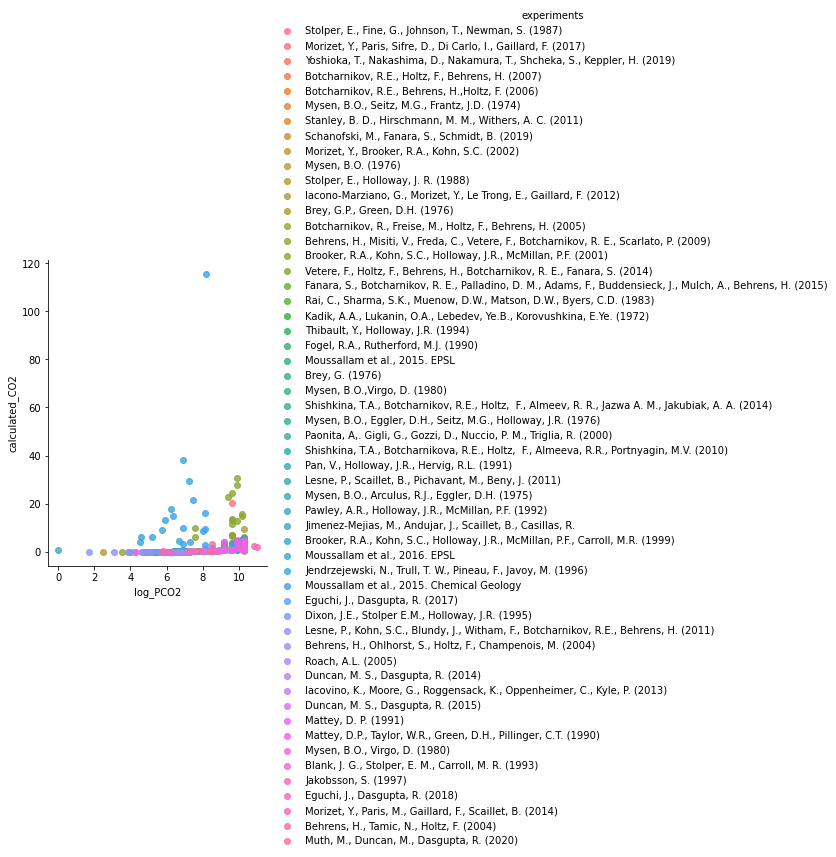
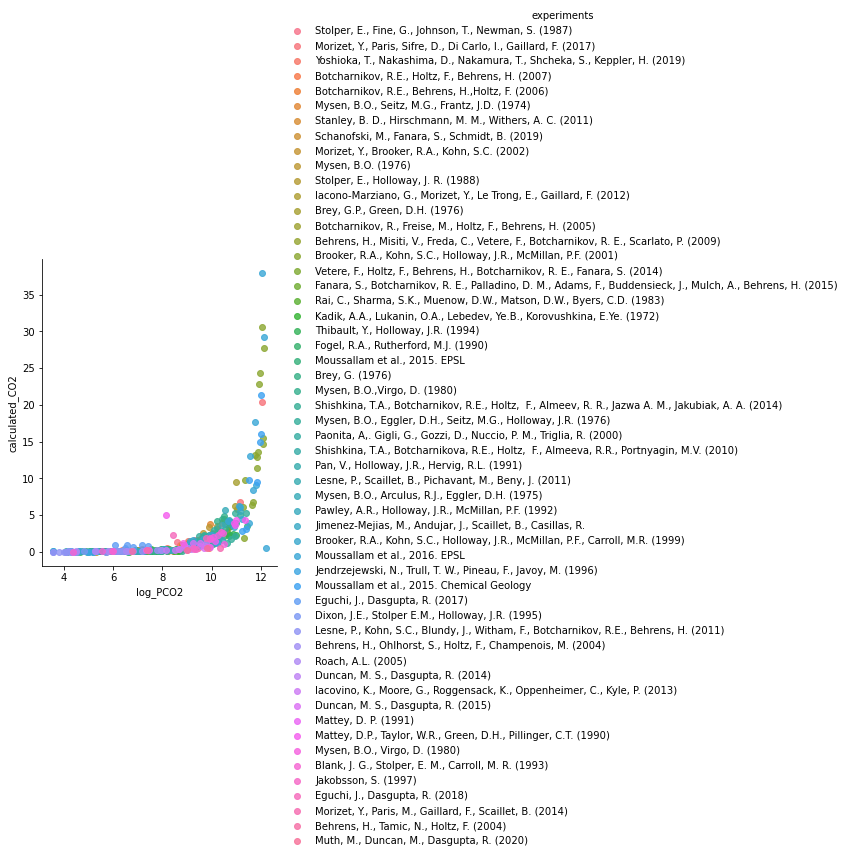
updated figures

Changed region(s): [[0.311, 0.0, 0.933, 1.0], [0.0311, 0.3034, 0.311, 0.6978], [0.2799, 0.4247, 0.311, 0.4551]]

diff --git a/Code/Iacono_approach_CO2.py b/Code/Iacono_approach_CO2.py
@@ -18,7 +18,6 @@ import seaborn as sns
 #%%
 #Remove data that have missing values
 data = pd.read_excel("Solubility_database5-11.xlsx", header=1)
-data = pd.read_excel("Solubility_database5-11.xlsx", header=1)
 clean_data = data[data["Phases"] == "liq"]
 clean_data1 = data[data["Phases"] == "liq+fl"]
 clean_data2 = data[data["Phases"].isnull()]
@@ -47,7 +46,7 @@ for i in range(np.shape(copy_of_data)[0]):
         index1.append(i)
 copy_of_data = copy_of_data[index1]
 #%%
-idx = [9,11,30,47,122,162,163,164,165,166,167,168,169,170,171,0,47]
+idx = [9,11,30,47,122,162,163,164,165,166,167,168,169,170,171,0]
 reduced_data = copy_of_data[:,idx]
 #%%
 for i in range(5,15):
@@ -91,7 +90,7 @@ new_train[:,6] = a/b
 new_train[:,7] = 1/reduced_data[:,1]
 #%%
 new_train1 = np.append(new_train, np.reshape(reduced_data[:,15],(-1,1)),1)
-new_train1 = np.append(new_train1, np.reshape(reduced_data[:,16],(-1,1)),1)
+new_train1 = np.append(new_train1, np.reshape(reduced_data[:,4],(-1,1)),1)
 #%%
 #Train-validation-test split: 60-20-20, using ordinary linear regression
 X_train, X_test, y_train, y_test = train_test_split(new_train1, y_whole_set, test_size=0.2, random_state=1)
@@ -105,8 +104,6 @@ val_error = np.sum((y_val_pred-y_val)**2)/len(y_val_pred)#1.2973  #validation er
 
 y_test_pred = np.matmul(X_test[:,:8],beta)
 test_error = np.sum((y_test_pred-y_test)**2)/len(y_test_pred)#1.0566  #test error(MSE)
-#%%
-
 #%%
 neigh = KNeighborsRegressor()
 #%%
@@ -209,27 +206,58 @@ plt.title("test data")
 y_train = np.exp(y_train)/10000
 y_pred = np.exp(y_pred)/10000
 #%%
+y_train = np.delete(y_train, 126)
+y_pred = np.delete(y_pred, 126)
+#%%
 df = np.append(np.reshape(y_train, (-1,1)), np.reshape(y_pred, (-1,1)),1)
-df = np.append(df, np.reshape(X_train[:,8], (-1,1)),1)
+#%%
+a2 = X_train[:,8]
+#%%
+a2 = np.delete(a2,126)
+df = np.append(df, np.reshape(a2, (-1,1)),1)
 df = pd.DataFrame(df, columns = ["true_CO2", "calculated_CO2", "experiments"])
 #%%
-sns.lmplot('true_CO2', 'calculated_CO2', data=df, hue='experiments', fit_reg=False)
-plt.plot(x,x,"-k")
+a1 = len(df["experiments"].unique())
+#%%
+marker = ['o', 'x', '^', '+', '*', '8', 's', 'p', 'D', 'H','o', 'x', '^', '+', '*', '8', 's', 'p', 'D', 'H','o', 'x', '^', '+', '*', '8', 's', 'p', 'D', 'H','o', 'x', '^', '+', '*', '8', 's', 'p', 'D', 'H','o', 'x', '^', '+', '*', '8', 's', 'p', 'D', 'H','o', 'x', '^', '+', '*', '8']
+markers = [marker[i] for i in range(len(df["experiments"].unique()))]
+sns.lmplot('true_CO2', 'calculated_CO2', data=df, hue='experiments', markers = markers, fit_reg=False)
+#plt.plot(x,x,"-k")
 plt.show()
 
 
+#%%
+y_test = np.delete(y_test, 123)
+y_pred_test = np.delete(y_pred_test,123)
+#%%
+a3 = X_test[:,8]
+#%%
+a3 = np.delete(a3,123)
 #%%
 df1 = np.append(np.reshape(y_test, (-1,1)), np.reshape(y_pred_test, (-1,1)),1)
-df1 = np.append(df1, np.reshape(X_test[:,8], (-1,1)),1)
+df1 = np.append(df1, np.reshape(a3, (-1,1)),1)
 df1 = pd.DataFrame(df1, columns = ["true_value", "calculated_value", "experiments"])
-sns.lmplot('true_value', 'calculated_value', data=df1, hue='experiments', fit_reg=False)
-plt.plot(x,x,"-k")
+#%%
+c = len(df1["experiments"].unique())
+#%%
+marker1 = ['o', 'x', '^', '+', '*', '8', 's', 'p', 'D', 'H','o', 'x', '^', '+', '*', '8', 's', 'p', 'D', 'H','o', 'x', '^', '+', '*', '8', 's', 'p', 'D', 'H','o', 'x', '^', '+', '*', '8', 's', 'p', 'D', 'H','o', 'x', '^', '+', '*', '8', 's', 'p', 'D', 'H','o']
+markers1 = [marker[i] for i in range(len(df1["experiments"].unique()))]
+sns.lmplot('true_value', 'calculated_value', data=df1, hue='experiments', markers = markers1, fit_reg=False)
 plt.show()
 
 #%%
-df = np.append(np.reshape(np.log(X_train[:,9].astype("float64")), (-1,1)), np.reshape(y_pred, (-1,1)),1)
-df = np.append(df, np.reshape(X_train[:,8], (-1,1)),1)
+a4 = X_train[:,9]
+a4 = np.delete(a4, 126)
+#%%
+df = np.append(np.reshape(np.log(a4.astype("float64")), (-1,1)), np.reshape(y_pred, (-1,1)),1)
+df = np.append(df, np.reshape(a2, (-1,1)),1)
 df = pd.DataFrame(df, columns = ["log_PCO2", "calculated_CO2", "experiments"])
 sns.lmplot('log_PCO2', 'calculated_CO2', data=df, hue='experiments', fit_reg=False)
+plt.show()
+#%%
+df = np.append(np.reshape(a4, (-1,1)), np.reshape(y_pred, (-1,1)),1)
+df = np.append(df, np.reshape(a2, (-1,1)),1)
+df = pd.DataFrame(df, columns = ["PCO2", "calculated_CO2", "experiments"])
+sns.lmplot('PCO2', 'calculated_CO2', data=df, hue='experiments', fit_reg=False)
 plt.show()
 
